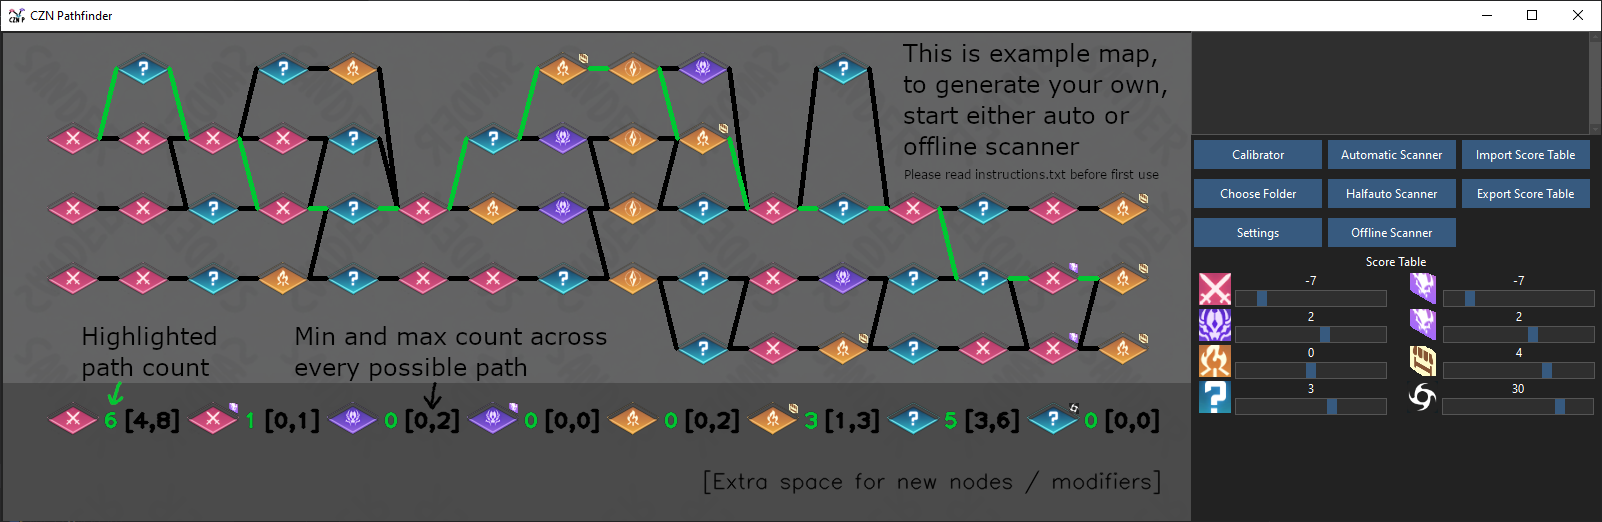
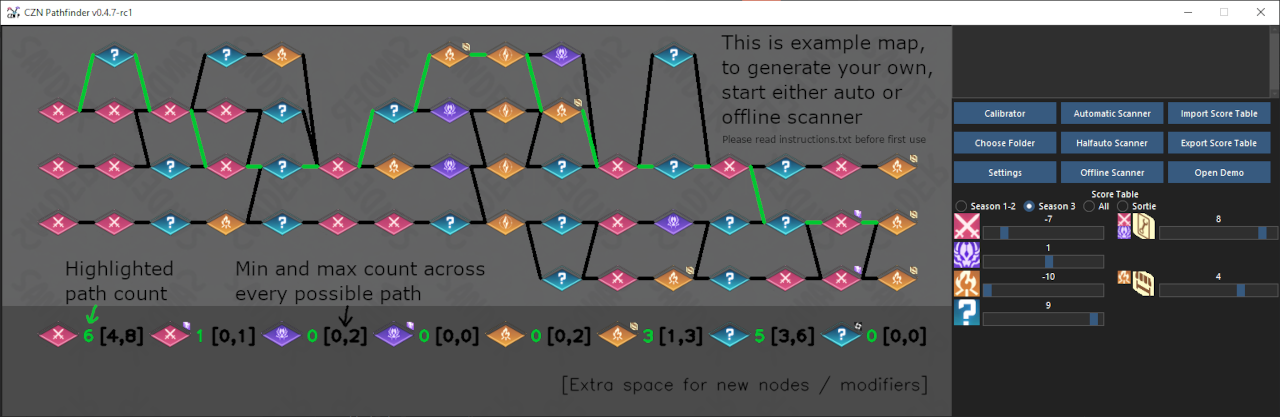
Updated media

diff --git a/data/settings.py b/data/settings.py
@@ -50,7 +50,7 @@ class Settings:
     autoupdate: bool = True
     last_update_check: datetime | None = None
     remote_version: str | None = None
-    local_version: str | None = "v0.4.7-rc1"  # REMEMBER TO UPDATE BEFORE BUILD, or integrate into build somehow; -rc1
+    local_version: str | None = "v0.5.0"  # REMEMBER TO UPDATE BEFORE BUILD, or integrate into build somehow; -rc1
     target_app_name: str = "Chaos Zero Nightmare"
 
     @classmethod

diff --git a/app.py b/app.py
@@ -56,7 +56,7 @@ def run():
     root = tb.Window(themename=theme)
     root.tk.call("tk", "scaling", 1.25)
     low_res = get_screen_res()[0] < 1600
-    gui = PipelineGUI(root, low_res=low_res)
+    gui = PipelineGUI(root, low_res=low_res, is_admin=is_admin())
 
     def on_close():
         gui.shutdown()

diff --git a/utils/build.py b/utils/build.py
@@ -41,7 +41,9 @@ release_ignore = [
     "requirements.txt",
     "README.md",
     "Images/gui_image.png",
-    "Images/Demo.gif",
+    "Images/demo.gif",
+    "Images/calibration_window.png",
+    "Images/mini_mode.png",
 
 ]
 

diff --git a/README.md b/README.md
@@ -40,16 +40,18 @@ The map updates immediately when score values change.
 Built-in calibration window allows the script recognize nodes correctly for your game resolution.<br>
 Captures screenshots from opened game or saved image, then labels every visible node and draws paths, helping you
 understand how the script sees.
+![calibration](Images/calibration_window.png)
 
 ### Mini mode
 
 Double-click the map to collapse the UI into a compact always-on-top overlay that stays visible while playing.<br>
 Best used together with keyboard shortcuts enabled, to fully eliminate the need to alt-tab.
+![mini mode](Images/mini_mode.png)
 
 ## Automatic scan demo
 
 Here's how calibration and automatic scan looks in action:
-![demo](Images/Demo.gif)
+![demo](Images/demo.gif)
 You can also test how the script works by using built-in demo, together with provided fake chaos map.
 
 ## Installation
